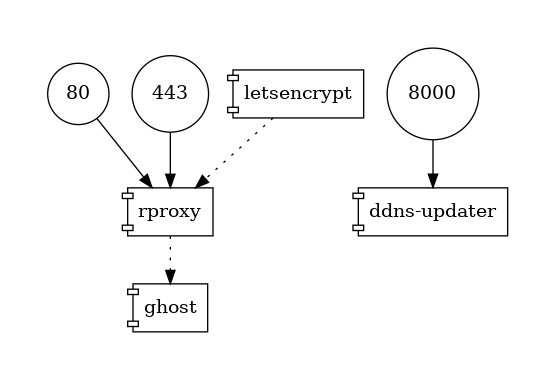
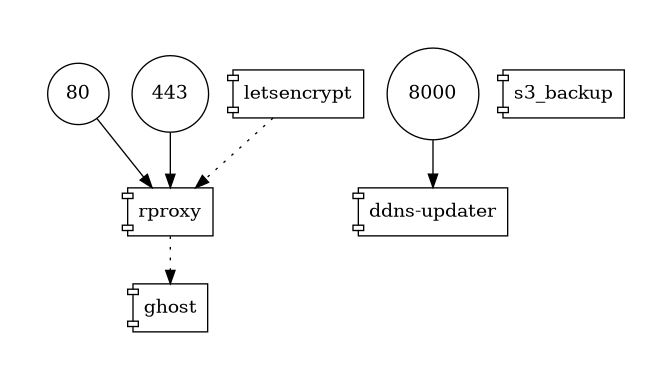
Updated blog to run on Ubuntu server

diff --git a/README.md b/README.md
@@ -1,42 +1,180 @@
 # Self Hosted Blog
-This is a self hosted blog solution powered by Linux on Windows, docker, nginx, letencrypt, certbot, ghost and lots more.
 
-### Pre-setup safety
-If you are planning on pushing your fork of this to git or just in general I really recommend making git ignore changes to the the secrets folder to ensure you don't accidentally leak any important secrets:
+This is a self-hosted blog solution powered by Docker, Nginx, Let's Encrypt, Ghost, and other self-managed components on Linux (tested on Ubuntu Server). This stack is designed to run on real hardware in your home — no cloud required.
+
+---
+
+### ⚠ Pre-setup Safety
+
+If you plan to fork or push this repo, **make sure Git ignores your secrets**:
+
 ```bash
 git update-index --skip-worktree bin/secrets/*
 ```
 
-### What you'll be deploying
-![](https://github.com/nkorai/SelfHostedBlog/blob/main/docker-compose-volumes.png)
+Double-check nothing sensitive is staged via `git status`.
+
+---
+
+### 🔧 What You'll Be Deploying
+
+![](https://github.com/nkorai/SelfHostedBlog/blob/main/docker-compose-volumes.png)  
 via https://github.com/pmsipilot/docker-compose-viz
 
-## Setup
-1. Clone this repository to your local machine
-1. Install docker on Windows using WSL2 and ensure you can get Docker Desktop up and running
-    1. https://docs.docker.com/desktop/windows/install/
-1. Port forward ports 80 and 443 to your the private IP address of the computer you want to host the blog on
-    1. Do this at your own risk
-    1. This is done to make your blog accessible from the public internet, which is a requirement for the SSL part of the solution.
-    1. Google how to do this for instructions as it depends on your router.
-      1. I haven't figured out how to automate this for a HyperV VM which is what I believe WSL2 runs on. I did get it working in just Windows and just Ubuntu but WSL2 is where I hit a roadblock.
-1. Enable Dynamic DNS with your domain provider and set a DDNS password.
-    1. Copy and paste the DDNS password into `bin/secrets/ddns_secret.txt`. If you ran the command to ignore the secrets folder, this shouldn't get checked into git but double check just to be sure
-1. Set the following environment variables in `bin/run.sh`. More instructions and reasoning are in comments around the variables
-    1. DOMAIN_NAME
-    1. EMAIL_ADDRESS
-1. Run `./bin/run.sh` from the root directory to kick off the containers
-1. Monitor Docker dashboard and ensure containers did not exit unexpectedly
+---
 
-### General troubleshooting
-- Try running the clean script `./bin/clean.sh` to blow away the `build` folder, followed by re-running the `./bin/run.sh` script.
-- If you're running all the scripts from inside VSCode, try exiting/restarting the terminal and if that doesn't work try exiting/restarting VSCode
-- Try STOPPING and NOT DELETING your docker containers in Docker Desktop. NOTE: if you delete a container (like ghost) you will lose all data and it will be tough/impossible to get it back.
-- If your issue persists please create an issue, I'll do my best to help.
+## ✅ Setup Instructions
 
-### How do I use a different domain name provider?
-My setup uses namecheap, but you can use another service as long as it is supported by https://github.com/qdm12/ddns-updater and grab the key e.g.  of your domain name provider.
-Once you confirm it is supported by the DDNS updater project, you will need to enable DDNS with your provider and the modify the `bin/ddns/config.json` file to match your providers format, e.g. [FreeDNS](https://github.com/qdm12/ddns-updater/blob/master/docs/freedns.md) uses "token" rather than "password". In that case all you need to do is update the "password" property, leave in the `DDNS_PASSWORD` variable and add the token to `./bin/secrets/ddns_secret.txt`
+### 1. System Requirements
 
-### I've checked in SSL certs into bin/ssl and they are now compromised
-They are dummy certs that were never used and are only there to ensure the nginx container comes up correctly, and are replaced by certbot with the letsencrypt real ones in `build/ssl/private` which is `.gitignore`-ed.
+- A Linux machine (e.g. Ubuntu Server on an Intel Mac Mini)
+- Public internet access (with port forwarding)
+- A domain name you control (e.g. `nkorai.com`)
+- Docker installed: [Install Docker](https://docs.docker.com/engine/install/)
+
+---
+
+### 2. Networking & DNS
+
+- **Port forward** ports `80` and `443` from your home router to your server's internal IP.
+- **Enable Dynamic DNS (DDNS)** with your domain provider.
+- Store your DDNS password in:  
+  `bin/secrets/ddns_secret.txt`
+
+---
+
+### 3. Configure Environment
+
+Edit the top of `bin/run.sh` to define:
+
+```bash
+export DOMAIN_NAME="yourdomain.com"
+export EMAIL_ADDRESS="your@email.com"
+export GHOST_CONTENT_DIRECTORY="/ghost_content"
+```
+
+---
+
+### 4. Seed Secrets
+
+Create these files:
+
+```bash
+bin/secrets/
+├── aws_access_key_id.txt
+├── aws_secret_access_key.txt
+├── ddns_secret.txt
+├── mailgun_user.txt
+└── mailgun_password.txt
+```
+
+---
+
+### 5. First-Time Run
+
+```bash
+./bin/user_run.sh
+```
+
+This will:
+
+- Initialize the folder structure
+- Inject your secrets
+- Set up nginx, Ghost, Let's Encrypt, DDNS, and backups
+- Start your Docker containers
+
+You should be able to visit your blog at:  
+📍 `https://yourdomain.com`
+
+---
+
+## 🚀 Make It Run On Boot (systemd)
+
+Enable automatic restarts after power loss or reboots:
+
+1. Create the systemd service:
+
+```ini
+# /etc/systemd/system/selfhostedblog.service
+[Unit]
+Description=Self Hosted Ghost Blog Stack
+After=network-online.target docker.service
+Requires=docker.service
+
+[Service]
+Type=oneshot
+RemainAfterExit=yes
+WorkingDirectory=/home/youruser/SelfHostedBlog
+ExecStart=/home/youruser/SelfHostedBlog/bin/user_run.sh
+ExecStop=/home/youruser/SelfHostedBlog/bin/user_clean.sh
+TimeoutStartSec=300
+TimeoutStopSec=300
+
+[Install]
+WantedBy=multi-user.target
+```
+
+2. Enable and start the service:
+
+```bash
+sudo systemctl daemon-reload
+sudo systemctl enable selfhostedblog.service
+sudo systemctl start selfhostedblog.service
+```
+
+Now the stack auto-starts after reboots.
+
+---
+
+## 🪩 Cleaning & Resetting
+
+To stop everything and clean up:
+
+```bash
+./bin/user_clean.sh
+```
+
+This removes containers and deletes the `./build` directory (but not your Ghost content).
+
+---
+
+## 🔧 Troubleshooting
+
+- If something breaks, run `user_clean.sh` followed by `user_run.sh`
+- Check `docker ps` and `docker logs <container>` for issues
+- Confirm DNS is correctly resolving your domain name
+- Check `journalctl -u selfhostedblog.service` for systemd issues
+
+---
+
+## 🌍 Supported Domain Providers
+
+This setup uses [qmcgaw/ddns-updater](https://github.com/qdm12/ddns-updater) — most major providers are supported (Namecheap, Cloudflare, GoDaddy, etc.).
+
+Update `bin/ddns/config.json` format as needed. If your provider uses a `token` instead of a `password`, you can still assign that to the `DDNS_PASSWORD` placeholder in your secret file.
+
+---
+
+## 🔮 About the Dummy SSL Certs
+
+Certs in `bin/ssl/` are **placeholders only**, used so nginx can boot on first run. These are replaced by real Let's Encrypt certs after the stack launches.
+
+Real certs are stored in:  
+`./build/ssl/private/` (gitignored)
+
+No real secrets are exposed by default.
+
+---
+
+## 💬 Want to Contribute or Report an Issue?
+
+Create a GitHub Issue and include:
+- Logs
+- Your OS version
+- What you’ve tried so far
+
+I’ll do my best to help.
+
+---
+
+
